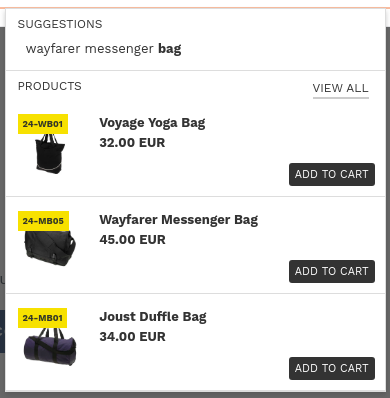
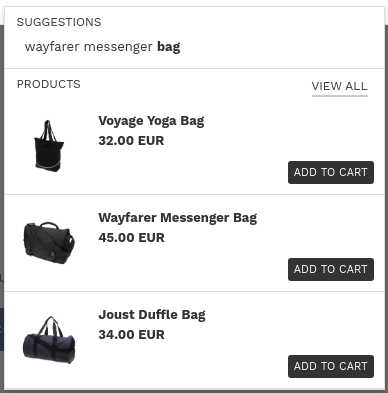
Add to cart module for quick search

diff --git a/modules/add-to-cart/quick/resources/assets/js/klevu-quick-add-to-cart.js b/modules/add-to-cart/quick/resources/assets/js/klevu-quick-add-to-cart.js
@@ -21,7 +21,7 @@ klevu.extend({
             attachQuickProductAddToCartBtnEvent: function (ele, event, productList) {
                 event = event || window.event;
                 event.preventDefault();
-                
+
                 var selected_product;
                 var target = klevu.dom.helpers.getClosest(ele, ".klevuQuickAddtoCart");
                 var productId = target.getAttribute("data-id");
@@ -55,5 +55,32 @@ klevu.extend({
             }
         };
 
+    }
+});
+
+/**
+ *  Add to cart button functionality on quick search
+ */
+
+klevu.coreEvent.attach("setRemoteConfigQuick", {
+    name: "addAddToCartButtonQuickSearch",
+    fire: function () {
+
+        /** Include addToCart base module first to use base functionalities */
+        klevu.addToCart(klevu.search.quick.getScope().element.kScope);
+
+        /** Set Template */
+        klevu.search.quick.getScope().template.setTemplate(klevu.dom.helpers.getHTML("#quickSearchProductAddToCart"), "quickSearchProductAddToCart", true);
+
+        /** Initalize add to cart service */
+        klevu.addToCartQuick(klevu.search.quick.getScope().element.kScope);
+
+        /** Bind quick page add to cart button click event */
+        klevu.search.quick.getScope().chains.template.events.add({
+            name: "quickSearchProductAddToCartEvent",
+            fire: function (data, scope) {
+                klevu.search.quick.getScope().addToCart.quick.bindQuickSearchProductAddToCartBtnClickEvent(data, "productList");
+            }
+        });
     }
 });

diff --git a/modules/add-to-cart/quick/README.md b/modules/add-to-cart/quick/README.md
@@ -11,6 +11,7 @@ add the resources from that in addition to this module's resources:
 _If you are not familiar with where to add these resources,
 please follow the appropriate ['hello world'](/getting-started/1-hello-world) tutorial._
 
+
 ## Template Modifications
 
 Modify `klevu-template-quick-productBlock.tpl` to add the 'Add to Cart' button in your preferred location.
@@ -23,14 +24,11 @@ Modify `klevu-template-quick-productBlock.tpl` to add the 'Add to Cart' button i
 </li>
 ```
 
-## Code Reference
 
-[add-to-cart.js](/components/add-to-cart/resources/assets/js/add-to-cart.js)
+### Code Reference
+
+[klevu-add-to-cart.js](/components/add-to-cart/resources/assets/js/klevu-add-to-cart.js)
 contains your framework-specific functionality to connect add to cart to your chosen framework.
 
-[add-to-cart-quick.js](/modules/add-to-cart/quick/resources/assets/js/add-to-cart-quick.js)
-connects the base component to your quick search results implementation.
-
-[quick-add-to-cart-initialize.js](/components/add-to-cart/resources/assets/js/quick-add-to-cart-initialize.js)
-and [add-to-cart-quick-script.js](/modules/add-to-cart/quick/resources/assets/js/add-to-cart-quick-script.js)
-show how to enable the base component for your targeted scope.
+[klevu-quick-add-to-cart.js](/modules/add-to-cart/quick/resources/assets/js/klevu-quick-add-to-cart.js)
+connects the base component to your quick search results implementation and show how to enable the base component for your targeted scope.
